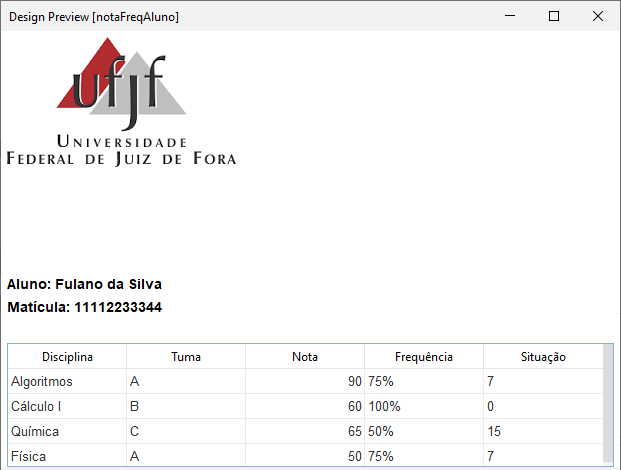
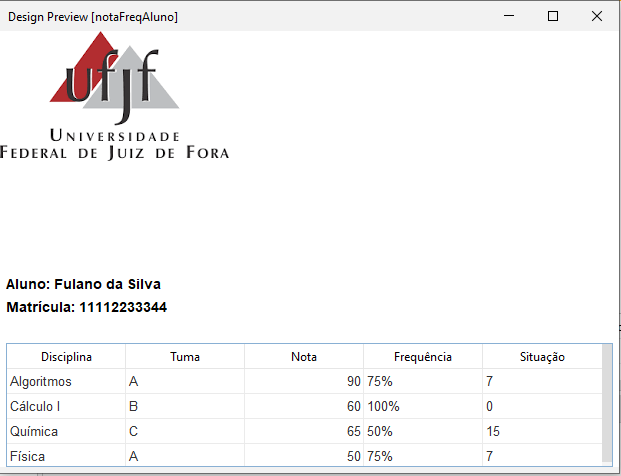
Correção tela de notas do aluno

diff --git a/Telas/src/main/java/com/mycompany/telas/notaFreqAluno.java b/Telas/src/main/java/com/mycompany/telas/notaFreqAluno.java
@@ -38,7 +38,7 @@ public class notaFreqAluno extends javax.swing.JFrame {
         jPanel1.setBackground(new java.awt.Color(255, 255, 255));
 
         jLabel1.setFont(new java.awt.Font("SansSerif", 1, 14)); // NOI18N
-        jLabel1.setText("Matícula: 11112233344");
+        jLabel1.setText("Matrícula: 11112233344");
 
         labelNomeAluno.setFont(new java.awt.Font("SansSerif", 1, 14)); // NOI18N
         labelNomeAluno.setText("Aluno: Fulano da Silva");
@@ -86,7 +86,7 @@ public class notaFreqAluno extends javax.swing.JFrame {
                         .addGroup(jPanel1Layout.createParallelGroup(javax.swing.GroupLayout.Alignment.LEADING)
                             .addComponent(labelNomeAluno)
                             .addComponent(jLabel1))
-                        .addGap(0, 452, Short.MAX_VALUE)))
+                        .addGap(0, 446, Short.MAX_VALUE)))
                 .addContainerGap())
             .addGroup(jPanel1Layout.createSequentialGroup()
                 .addComponent(imgLogoUFJF)
